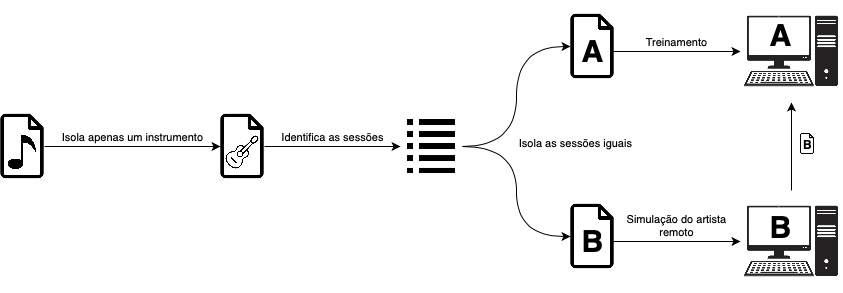
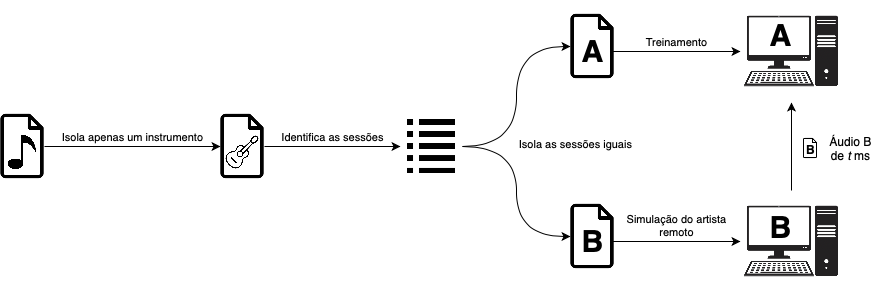
thesis: add models section

diff --git a/thesis/3.4-models.tex b/thesis/3.4-models.tex
@@ -1,0 +1,59 @@
+\section{Modelos preditivos}
+
+Dada a solução proposta, este trabalho propõe o estudo da viabilidade de dois modelos preditivos - previsão através de (1) geração de novas sequências e (2) indexação e identificação de sequências anteriores. Ambas baseiam-se em extrair informações a partir de entradas anteriores de áudio e apontar um \textit{output} sobre o que classificam ser o mais próximo do dado real futuro - no entanto, possuem diferenças sobre a forma que atingem esse objetivo.
+
+\subsection{Geração de novas sequências}
+
+Gerar novas sequências baseando-se em entradas anteriores encaixa-se intuitivamente no conceito de ``previsão'', como descrito no algoritmo de \textit{client-side prediction}. Evidentemente, seu uso em uma adaptação para ambientes musicais foi explorado.
+
+Em nossa adaptação do \textit{client-side prediction}, anteriormente à sessão entre os músicos, um modelo de aprendizagem de máquina é treinado utilizando áudios já conhecidos -  semelhantes, mas não iguais aos que serão produzidos pelo músico remoto. Este modelo receberá como entrada sequências de áudio de $t$ ms de duração e produzirá saídas de mesma duração, como descrito na \figref{fig:generative_model}.
+
+\begin{figure}[htbp]
+    \centering
+    \includegraphics[width=0.75\textwidth]{images/prediction-model.png}
+    \caption{Processo de geração de novas sequências através de modelos treinados.}
+    \label{fig:generative_model}
+\end{figure}
+
+Uma das possibilidades para prever sequências musicais pode ser encontrado no campo de continuação de músicas baseados em um estilo. Dhariwal et. al propõem o \textit{Jukebox}, da \textit{OpenAI}, que usa redes neurais para aprender diferentes gêneros e produzir continuações para músicas \cite{jukebox}. Para o uso em previsões, poderíamos treinar modelos com a música a ser tocada e, para cada pequena sequência, gerar uma continuação. Entretanto, os autores deixam claro que uma das limitações de seu uso é o tempo de renderização - cerca de 8 horas para cada um minuto de áudio gerado \cite{jukebox}. Como o tempo de geração das previsões é bastante sensível em nossa adaptação, essa abordagem foi descartada.
+
+O campo da Aprendizagem de Máquina que visa gerar novas sequências baseando-se nas anteriores é a de Previsão de Séries Temporais (\textit{Time Series Forecasting}). Essa abordagem procura aplicar técnicas para prever continuações de conjunto de dados onde o tempo é uma de suas dimensões \cite{time_series_forecasting}. Podemos classificar, portanto, que previsões de sequências musicais é um subconjunto dos problemas desse campo e, dessa forma, adaptá-la para uso em nossa solução proposta.
+
+Uma das abordagens utilizadas para resolver problemas do conjunto \textit{Time Series Forecasting} é a aplicação das redes neurais recorrentes LSTM (\textit{Long Short-Term Memory}) \cite{lstm}. Tais redes são capazes de aprender conexões de longo prazo. Dessa maneira, elas possuem um memorável poder de predição, funcionando bem em diversos problemas, sendo amplamente usadas atualmente.
+
+A biblioteca \textit{Keras} \cite{keras}, escrita na linguagem de programação Python, implementa modelos de aprendizagem LSTM. Dessa forma, seu uso é bastante promissor para nossa adaptação musical de \textit{Client-Side Prediction}. Exploramos-o no primeiro ciclo de estudos, descrito no \chapref{chap:lstm}.
+
+\subsection{Indexação e identificação de sequências anteriores}
+
+Para previsão de sequências, a geração de novos valores não é um requisito. Se possuirmos um conjunto de dados, reunindo diferentes sequências e informações sobre quais vieram após tais sequências, poderíamos apenas reproduzi-las. Dessa forma, sugerimos um modelo preditivo que, ao invés de fornecer sequências de áudio inéditas, identifica sequências similares e reproduz a que veio em seguida, como ilustrado na \figref{fig:indexative_model}.
+
+\begin{figure}[htbp]
+    \centering
+    \includegraphics[width=1\textwidth]{images/index-model.png}
+    \caption{Processo de identificação de sequência $P$ semelhante à entrada $B$ e entrega da previsão baseada na que veio após a sequência $P$ identificada.}
+    \label{fig:indexative_model}
+\end{figure}
+
+Além do conjunto de regras apresentados na \secref{sec:data_gathering}, o conjunto de dados que será consultado nesse modelo possui as seguintes regras:
+
+\begin{enumerate}
+    \item Todos os arquivos necessitam representar diferentes sessões da música entre si;
+    \item Todos os arquivos necessitam possuir duração maior ou igual à $t$ ms, onde $t$ é a duração do arquivo utilizado para consulta de similaridade;
+    \item Todos os arquivos requerem que exista um, e apenas um, arquivo que represente a sequência tocada após ele mesmo.
+\end{enumerate}
+
+A Regra 1 garante que, ao realizar uma \textit{query} de similaridade entre a sequência de entrada e as armazenadas, haverá no máximo uma correspondência. Tal requisito é importante, pois, se houver mais de uma, haverá mais de uma previsão, causando ambiguidade. A Regra 2 garante que as previsões entregues possuirão pelo menos a mesma duração que as sequências de entrada. Caso sejam menores, a diferença entre as durações causará um atraso de entrega, causando o problema descrito na \subsecref{subsec:time_metric}. Finalmente, a Regra 3 garante que todos os arquivos necessitam possuir outro que represente o que foi tocado após ele, que será de fato entregue como previsão, evitando ambiguidades.
+
+Portanto, tal modelo requer duas técnicas: (1) uma para indexar as sequências de música, respeitando as regras descritas e (2) uma para identificar similaridade entre a sequência de entrada (transmitidas pelo músico remoto) e as sequências armazenadas.
+
+Neste trabalho, realizamos a primeira técnica manualmente. O processo é demonstrado no \chapref{chap:dtw}.
+
+Para a segunda técnica, estudamos alguns que métodos podem ser utilizados para identificação de sequências. A biblioteca Librosa \cite{librosa}, também escrita em Python, implementa algumas ferramentas que podem auxiliar em tal tarefa, como o cálculo da centroide espectral \cite{centroid} de sequências de áudio. O cálculo encontra uma média central entre as frequências presentes em cada janela de tempo da sequência de entrada. Para identificação, poderíamos calcular as centroides de cada sequência no conjunto de dados e comparar com a sequência transmitida pelo músico remoto. Entretanto, apenas a informação das frequências principais não é suficiente para identificar semelhança, uma vez que tal informação não varia tanto para cada janela, principalmente para aquelas que reproduzem o mesmo acorde ou nota.
+
+Entretanto, a mesma biblioteca implementa o algoritmo DTW (\textit{Dynamic Time Warping}) \cite{dtw}, um algoritmo utilizado para comparar e alinhar duas séries temporais. Em nossa adaptação de \textit{client-side prediction}, podemos aplicar DTW nas sequências transmitidas contra o banco de dados. Caso haja uma janela semelhante, o algoritmo a entregará como \textit{output} o \textit{timestamp} do início e fim da identificação.
+
+Dessa forma, o \chapref{chap:dtw} também demonstra como utilizamos o DTW em nossas experimentações, além de sua taxa de sucesso na identificação de janelas semelhantes. Caso essa taxa seja alta o suficiente e a indexação das previsões seja acurada, será possível reproduzir um áudio bastante similar ao transmitido pelo músico remoto.
+
+\subsection{Comparação entre os modelos}
+
+TODO: comparar as vantagens e desvantagens entre os modelos

diff --git a/thesis/3.3-data_gathering.tex b/thesis/3.3-data_gathering.tex
@@ -1,23 +1,24 @@
 \section{Coleta de dados e simulação do ambiente musical \textit{online}}
+\label{sec:data_gathering}
 
 Para realizar os experimentos, procuramos simular, de forma simples, um ambiente colaborativo musical \textit{online} \textit{peer-to-peer}, do ponto de vista do músico local. Nosso conjunto de dados, dessa forma, contém pares de arquivos de música com as seguintes regras:
 
 \begin{enumerate}
-    \item Ambos reproduzem a mesma sequência de uma música, porém, em performances diferentes;
-    \item Ambos consistem de apenas um instrumento;
-    \item Ambos consistem do mesmo instrumento.
+    \item Ambos arquivos reproduzem a mesma sequência de uma música, porém, em performances diferentes;
+    \item Ambos arquivos consistem de apenas um instrumento;
+    \item Ambos arquivos consistem do mesmo instrumento.
 \end{enumerate}
 
-A regra 1 visa simular a transmissão de dados - é importante que os arquivos reproduzam a mesma sessão da música, porém, de formas diferentes, como um ser humano faria. A regra 2, apesar de não obrigatória em transmissões em casos reais, simplifica o processamento e previsão dos áudios; além disso, não é esperado que vários músicos compartilhem do mesmo canal de transmissão. Por último, a regra 3 complementa a as duas regras anteriores, garantindo a mesma sequência de áudio performada de diferentes maneiras pelo mesmo instrumento.
+A Regra 1 visa simular diferentes reproduções de uma a mesma sessão de uma música, porém, de formas diferentes, similarmente a como ser humano o faria. A Regra 2, apesar de não obrigatória em transmissões em casos reais, simplifica o processamento e geração de previsão dos áudios; além disso, não é esperado que vários músicos compartilhem do mesmo canal de transmissão. Por último, a Regra 3 complementa a as duas regras anteriores, garantindo a mesma sequência de áudio performada de diferentes maneiras pelo mesmo instrumento.
 
 Para cada par, podemos nomear o primeiro arquivo $A$ e o segundo $B$, onde $A$ é classificado como o conjunto de treinamento o $B$ o conjunto de teste. Dessa forma, conseguimos simular um ambiente onde um dos músicos possui o conjunto $A$ treinado em sua máquina e está recebendo o conjunto $B$ do músico remoto.
 
-Para coletar arquivos com esses requisitos, a seguinte abordagem foi realizada, ilustrada na \figref{fig:data_gathering}: (1) buscou-se músicas onde a mesma sequência de acordes e notas era reproduzida em diferentes sessões (por exemplo, uma introdução que serve de motivo para a música); (2) depois, isolou-se apenas um instrumento; (3) identificou-se as sessões repetidas e; (4) separou-se as sessões isoladamente e criou-se os dois arquivos, um para treinamento e outro para simulação do áudio remoto.
+Para coletar arquivos com esses requisitos, a seguinte abordagem foi realizada, ilustrada na \figref{fig:data_gathering}: (1) buscou-se músicas onde a mesma sequência de acordes e notas era reproduzida em diferentes sessões (por exemplo, uma introdução que serve de motivo para a música); (2) depois, isolou-se apenas um instrumento; (3) identificou-se as sessões repetidas e, por último; (4) separou-se as sessões isoladamente e criou-se os dois arquivos, um para treinamento e outro para simulação do áudio trasmitido remotamente.
 
 \begin{figure}[htbp]
 \centering
 \includegraphics[width=1\textwidth]{images/data-gathering.png}
-\caption{Processo de coleta de dados e simulação de um ambiente musical colaborativo \textit{peer-to-peer}.}
+\caption{Processo de coleta de dados e simulação de um ambiente musical colaborativo \textit{peer-to-peer}. Os arquivos $A$ e $B$ representam uma mesma sessão da música, porém, em performances diferentes.}
 \label{fig:data_gathering}
 \end{figure}
 

diff --git a/thesis/5-ciclo-2-dtw.tex b/thesis/5-ciclo-2-dtw.tex
@@ -2,3 +2,26 @@
 \label{chap:dtw}
 
 TODO: explicar a ideia do DTW vinda a partir dos resultados do primeiro ciclo
+
+Uma forma de visualizar como os dados podem ser estruturados é transformando as sessões de uma música em uma espécie de máquina de estados. Por exemplo, uma máquina de estados da música \textit{Message In A Bottle}, para a trilha da guitarra, é ilustrada na \figref{fig:miab_state_machine}. No entanto, é notável que alguns estados podem transitar para mais de um estado. Por exemplo, a Introdução pode transitar entre si mesma em um \textit{loop} ou para o \textit{Bridge 1}. Tal característica quebra a Regra 3, pois, caso a sessão identificada fosse a introdução, não seria possível saber qual seria a próxima sessão e duas previsões seriam entregues.
+
+\begin{figure}[htbp]
+    \centering
+    \includegraphics[width=0.75\textwidth]{images/MIAB state machine.png}
+    \caption{Máquina de estados para a trilha da guitarra elétrica da música \textit{Message In A Bottle} (\textit{The Police}, 1979).}
+    \label{fig:miab_state_machine}
+\end{figure}
+
+Para lidar com isso, podemos reorganizar tal máquina de estados apresentando sessões de transição entre os estados. Dessa forma, quando uma transição fosse identificada, apenas uma previsão seria gerada, como ilustrado na \figref{fig:miab_adapted_state_machine}. Note, entretanto, que nenhum dos estados "aponta" para um estado de transição. Isso significa que nenhuma das previsões conterá um desses estados, efetivamente perdendo essa informação de transição.
+
+É importante, portanto, que cada estado represente um arquivo de música com curta duração. Dessa forma, mais estados poderão ser previstos e, portanto, mais correta serão as previsões.
+
+\begin{figure}[htbp]
+    \centering
+    \includegraphics[width=0.4\textwidth]{images/MIAB adapted state machine.png}
+    \caption{Máquina de estados adaptada para a trilha da guitarra elétrica da música \textit{Message In A Bottle} (\textit{The Police}, 1979).}
+    \label{fig:miab_adapted_state_machine}
+\end{figure}
+
+
+Neste trabalho, realizamos a primeira técnica manualmente, ouvindo as músicas recolhidas na \secref{sec:data_gathering}, identificando as janelas de áudio diferentes entre si e indexando as janelas que vieram após cada uma. 

diff --git a/thesis/2.3-rollback_netcode.tex b/thesis/2.3-rollback_netcode.tex
@@ -15,7 +15,7 @@ No contexto de ambientes musicais \textit{online}, podemos comparar esse método
 
 \subsection{\textit{Client-side prediction}}
 
-A implementação do \textit{Client-side prediction} \footnote{Tradução da imagem criada por GerardSN, CC BY-SA 4.0. Disponível em https://commons.wikimedia.org/w/index.php?curid=97477279.} (\figref{fig:rollback_diagram}), por outro lado, aumenta a tolerância da espera dos pacotes propondo a previsão dos \textit{inputs} dos jogadores antes que cheguem via Internet utilizando dados já recebidos anteriormente. Caso as previsões sejam incorretas, o estado de jogo no momento em que a previsão foi realizado é retornado, portanto, o nome popular ``\textit{rollback}'' (reversão) \cite{rollback}.
+A implementação do \textit{Client-side prediction} (\figref{fig:rollback_diagram}\footnote{Tradução da imagem criada por GerardSN, CC BY-SA 4.0. Disponível em https://commons.wikimedia.org/w/index.php?curid=97477279.}), por outro lado, aumenta a tolerância da espera dos pacotes propondo a previsão dos \textit{inputs} dos jogadores antes que cheguem via Internet utilizando dados já recebidos anteriormente. Caso as previsões sejam incorretas, o estado de jogo no momento em que a previsão foi realizado é retornado, portanto, o nome popular ``\textit{rollback}'' (reversão) \cite{rollback}.
 
 \begin{figure}[htbp]
 \centering

diff --git a/thesis/3.2-success-metrics.tex b/thesis/3.2-success-metrics.tex
@@ -1,4 +1,5 @@
 \section{Métricas de sucesso dos modelos preditivos}
+\label{sec:success_metrics}
 
 Como mencionado, existem alguns requisitos que os modelos preditivos propostos precisam cumprir para serem considerados bem sucedidos. Em cada ciclo, diferentes metodologias foram utilizadas para demonstrar essas métricas.
 
@@ -14,6 +15,7 @@ Dessa forma, o critério de sucesso dessa métrica é, para as sequências previ
 Note que, por se tratar de um critério abstrato, quantificar essa métrica pode não representar bem o seu sucesso. Em cada um dos ciclos, utilizamos diferentes metodologias (demonstrados em \secref{sec:lstm_metodology} e \secref{sec:dtw_metodology}) para medi-la, visando sempre satisfazer o critério estabelecido.
 
 \subsection{Tempo de geração de previsões}
+\label{subsec:time_metric}
 
 Supondo que \textit{t} é o tempo escolhido das janelas de previsão de áudio e \textit{p} é o tempo levado para gerar essas previsões, é imprescindível para o sucesso dos modelos preditivos que $t \leq p $. Caso contrário, o tempo excedente de processamento cria um \textit{delay} entre o que está sendo executado pelo músico remoto e o que está sendo reproduzido localmente e, consequentemente, causando dessincronia entre os músicos.
 

diff --git a/thesis/6-conclusoes.tex b/thesis/6-conclusoes.tex
@@ -2,3 +2,9 @@
 
 % • Contribuições: o que voce trouxe de novo?
 % • trabalhos futuros
+
+
+% PARA SER USADO EM TRABALHOS FUTUROS
+% \textit{Seq2Seq} é um \textit{framework} codificador/decodificador de propósito geral para o \textit{Tensorflow} \cite{seq2seq}. É utilizado em aplicações que requerem traduções de uma sequências para outras de diferentes domínios. É bastante utilizado em traduções para diferentes idiomas, legendas automáticas de imagens, sumário de textos, entre outros.
+
+% Para aplicação em \textit{Time Series Forecasting}, o \textit{seq2seq} considera dois domínios: passado e futuro. Dessa forma, nosso conjunto de dados constituiria de pares de sequências - o primeiro elemento representando a sequência de áudio tocado e o segundo o que foi reproduzido logo em seguida.

diff --git a/thesis/index.tex b/thesis/index.tex
@@ -165,6 +165,7 @@
 \include{3.1-adaptation}
 \include{3.2-success-metrics}
 \include{3.3-data_gathering}
+\include{3.4-models}
 \include{4-ciclo_1_lstm}
 \include{4.1-proposta_de_solucao_lstm}
 \include{4.2-avaliacao-lstm}

diff --git a/thesis/2.2-estado_da_arte.tex b/thesis/2.2-estado_da_arte.tex
@@ -38,7 +38,7 @@ TODO: revisitar essa matriz, estilizar e corrigi-la
 
 \renewcommand{\arraystretch}{2}
 
-\begin{table}[h!]
+\begin{table}[ht!]
     \centering
     \begin{tabular}{|c|c|c|c|c|c|}
         \cline{3-6}

diff --git a/thesis/4-ciclo_1_lstm.tex b/thesis/4-ciclo_1_lstm.tex
@@ -1,4 +1,2 @@
-\chapter{Ciclo 1: Previsão de sequências com LSTM}
+\chapter{Ciclo 1: Geração de novas sequências com LSTM}
 \label{chap:lstm}
-
-TODO: explicação geral do primeiro ciclo
